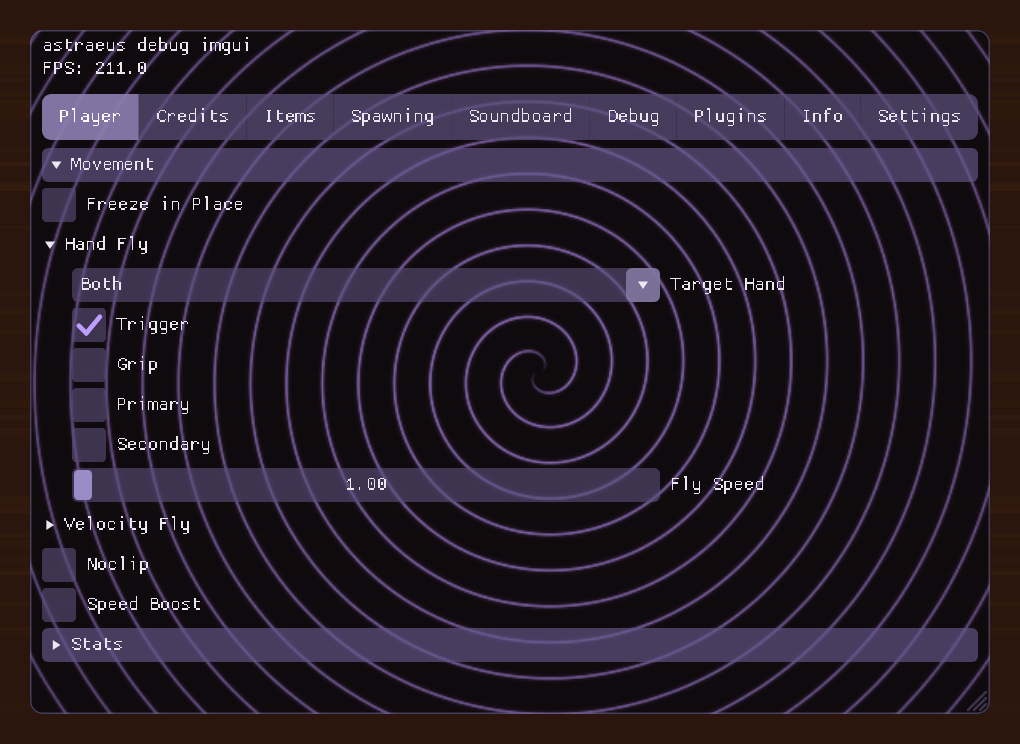
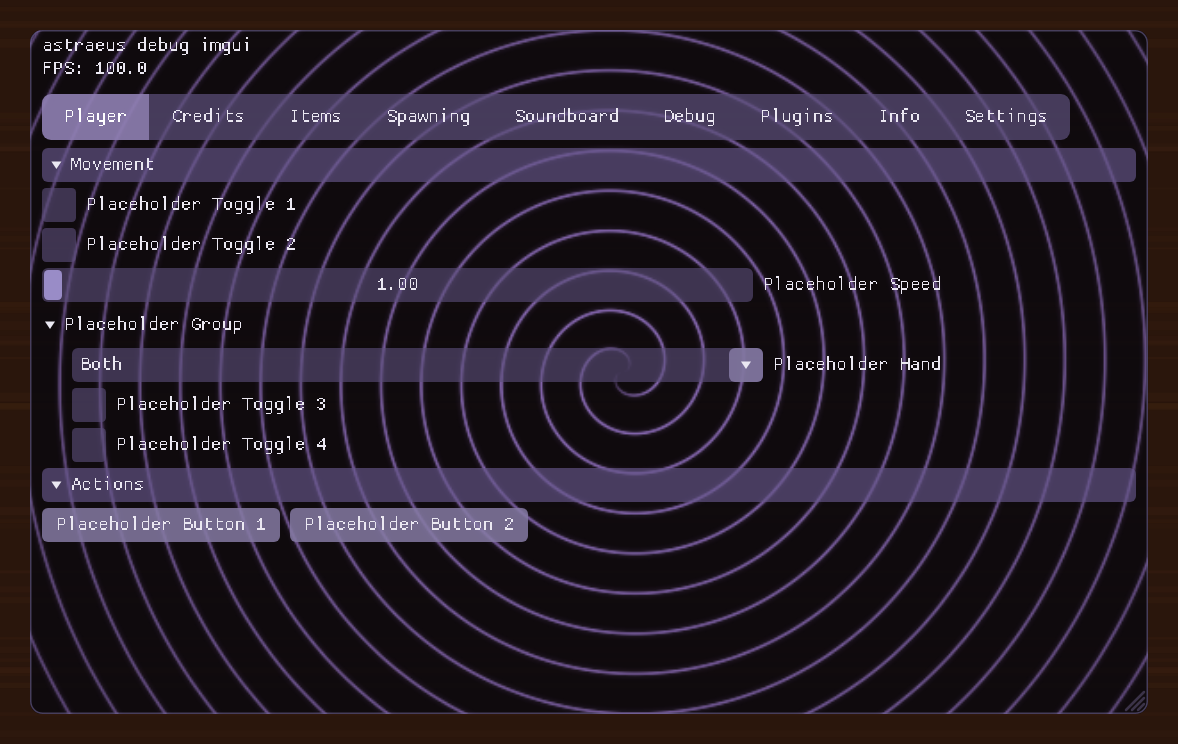
Placeholder Player / Items / Spawning tabs behind a warning
Each of the three tabs first shows a framed notice saying it's a
placeholder with no scripts behind it (so it does nothing in Animal
Company) and a Continue button; once continued (per tab, per session) the
tab shows placeholder controls. Toggles, sliders, combos, the item list
and the buttons all work as UI, buttons just post a 'placeholder - no
script attached' notification.

Adds ui.notice(title, lines, button): a word-wrapped message box with a
highlighted border and one button, returning true when clicked.

Claude-Session: https://claude.ai/code/session_01CSWsGaxVVQEfJqQLYJMYRF

Changed region(s): [[0.0, 0.0309, 0.9725, 0.9583], [0.5471, 0.0309, 0.6078, 0.0618], [0.4255, 0.0309, 0.4863, 0.0618]]

diff --git a/fridaimgui.ts b/fridaimgui.ts
@@ -89,24 +89,26 @@ const S = {
 	showBones:     ref(false),
 	showColliders: ref(false),
 	logHooks:      ref(false),
-	freeze:        ref(false),
-	flyHand:       ref(0),
-	flyTrigger:    ref(true),
-	flyGrip:       ref(false),
-	flyPrimary:    ref(false),
-	flySecondary:  ref(false),
-	velHand:       ref(0),
-	velTrigger:    ref(false),
-	velGrip:       ref(false),
-	velPrimary:    ref(false),
-	itemSel:       ref(0),
 };
 const HANDS = ["Both", "Left", "Right"];
-const DEMO_SPAWN = ["item_ak_scale", "item_apple", "item_arena_pistol", "item_arena_shotgun", "item_arrow", "item_arrow_bomb",
-	"item_backpack", "item_banana", "item_baseball_bat", "item_boombox", "item_bow", "item_crossbow", "item_dynamite",
-	"item_flaregun", "item_grenade", "item_grenade_launcher", "item_hookshot", "item_jetpack", "item_katana", "item_lance",
-	"item_medkit", "item_pickaxe", "item_revolver", "item_rpg", "item_shotgun", "item_stick", "item_sword", "item_teleporter"];
 const MODES = ["Normal", "Fast", "Chaos"];
+
+// Placeholder tabs: every control works (toggles, sliders, lists, buttons) but nothing is wired to a script.
+const PH = {
+	toggles: [ref(false), ref(false), ref(false), ref(false), ref(false), ref(false)],
+	speed: ref(1.0), amount: ref(1), mode: ref(0), hand: ref(0), item: ref(0), group: ref(false),
+	scale: ref(1.0), count: ref(1),
+};
+const PH_ITEMS = Array.from({ length: 24 }, (_, i) => "Placeholder Item " + (i + 1 < 10 ? "0" : "") + (i + 1));
+const PH_WARNING = ["This tab is a placeholder.", "Nothing in it is connected to a script, so it won't do anything in AC (Animal Company). The buttons, toggles and sliders still work - they just don't run any mods."];
+const phSeen = new Set<string>();
+const phClick = (ui: any, what: string) => ui.notify(what + " (placeholder - no script attached)");
+// Shows the warning until Continue is pressed (once per tab, per session). Returns true once past it.
+function placeholderGate(ui: any, tab: string): boolean {
+	if (phSeen.has(tab)) return true;
+	if (ui.notice("Placeholder", PH_WARNING, "Continue")) phSeen.add(tab);
+	return false;
+}
 const DEMO_ITEMS = ["mod.frb", "config.json", "preset_a.frb", "preset_b.frb"];
 
 function onUpdate(): void {
@@ -119,30 +121,23 @@ function drawMenu(ui: any): void {
 		ui.beginTabBar("tabs");
 
 		if (ui.tabItem("Player")) {
-			if (ui.collapsingHeader("Movement", true)) {
-				ui.checkbox("Freeze in Place", S.freeze);
-				if (ui.treeNode("Hand Fly", true)) {
-					ui.combo("Target Hand", S.flyHand, HANDS);
-					ui.checkbox("Trigger", S.flyTrigger);
-					ui.checkbox("Grip", S.flyGrip);
-					ui.checkbox("Primary", S.flyPrimary);
-					ui.checkbox("Secondary", S.flySecondary);
-					ui.sliderFloat("Fly Speed", S.speed, 1, 10, 2);
-					ui.treePop();
+			if (placeholderGate(ui, "Player")) {
+				if (ui.collapsingHeader("Movement", true)) {
+					ui.checkbox("Placeholder Toggle 1", PH.toggles[0]);
+					ui.checkbox("Placeholder Toggle 2", PH.toggles[1]);
+					ui.sliderFloat("Placeholder Speed", PH.speed, 1, 10, 2);
+					if (ui.treeNode("Placeholder Group", true)) {
+						ui.combo("Placeholder Hand", PH.hand, HANDS);
+						ui.checkbox("Placeholder Toggle 3", PH.toggles[2]);
+						ui.checkbox("Placeholder Toggle 4", PH.toggles[3]);
+						ui.treePop();
+					}
 				}
-				if (ui.treeNode("Velocity Fly")) {
-					ui.combo("Target Hand##vel", S.velHand, HANDS);
-					ui.checkbox("Trigger##vel", S.velTrigger);
-					ui.checkbox("Grip##vel", S.velGrip);
-					ui.checkbox("Primary##vel", S.velPrimary);
-					ui.treePop();
+				if (ui.collapsingHeader("Actions", true)) {
+					if (ui.button("Placeholder Button 1")) phClick(ui, "Placeholder Button 1");
+					ui.sameLine();
+					if (ui.button("Placeholder Button 2")) phClick(ui, "Placeholder Button 2");
 				}
-				ui.checkbox("Noclip", S.noclip);
-				ui.checkbox("Speed Boost", S.speedBoost);
-			}
-			if (ui.collapsingHeader("Stats", false)) {
-				ui.progressBar(S.speed.v / 10, "speed " + S.speed.v.toFixed(1));
-				ui.text("These are demo controls - wire them to your game.");
 			}
 		}
 
@@ -160,43 +155,31 @@ function drawMenu(ui: any): void {
 		}
 
 		if (ui.tabItem("Items")) {
-			if (ui.collapsingHeader("Items", true)) {
-				if (ui.listBox("##spawnlist", S.itemSel, DEMO_SPAWN, 8)) ui.notify("selected " + DEMO_SPAWN[S.itemSel.v]);
-				ui.text("Selected: " + DEMO_SPAWN[S.itemSel.v]);
+			if (placeholderGate(ui, "Items")) {
+				if (ui.collapsingHeader("Items", true)) {
+					ui.listBox("##phitems", PH.item, PH_ITEMS, 8);
+					ui.text("Selected: " + PH_ITEMS[PH.item.v]);
+				}
+				if (ui.collapsingHeader("Options", true)) {
+					ui.sliderFloat("Placeholder Scale", PH.scale, 0.1, 5, 2);
+					ui.sameLine();
+					if (ui.button("Reset##phscale")) PH.scale.v = 1.0;
+					ui.checkbox("Placeholder Toggle 5", PH.toggles[4]);
+					if (ui.button("Use Selected Item")) phClick(ui, PH_ITEMS[PH.item.v]);
+				}
 			}
-			if (ui.collapsingHeader("Spawn Config", true)) {
-				ui.checkbox("Random Scale", S.randomScale);
-				ui.sliderFloat("Scale Modifier", S.scaleMod, 0.1, 5, 2);
-				ui.sameLine();
-				if (ui.button("Reset##scale")) S.scaleMod.v = 1.0;
-				ui.checkbox("Random Sat", S.randomSat);
-				ui.sliderFloat("Saturation Modifier", S.satMod, 0, 2, 2);
-				ui.sameLine();
-				if (ui.button("Reset##sat")) S.satMod.v = 1.0;
-				ui.checkbox("Random Hue", S.randomHue);
-				ui.sliderFloat("Hue Modifier", S.hueMod, 0, 360, 0);
-				ui.sameLine();
-				if (ui.button("Reset##hue")) S.hueMod.v = 0;
-			}
-			ui.checkbox("Hand Duper", S.handDuper);
-			ui.separator();
-			if (ui.button("Spawn Left Hand")) ui.notify("demo: spawn left hand");
-			ui.sameLine();
-			if (ui.button("Spawn Right Hand")) ui.notify("demo: spawn right hand");
-			if (ui.button("Spawn Head")) ui.notify("demo: spawn head");
-			ui.sameLine();
-			if (ui.button("Item Launcher")) ui.notify("demo: launcher");
 		}
 
 		if (ui.tabItem("Spawning")) {
-			ui.text("Config file: " + ui.filePath());
-			if (ui.button("Browse##items")) { S.itemPath.v = (S.itemPath.v + 1) % DEMO_ITEMS.length; ui.notify("selected " + DEMO_ITEMS[S.itemPath.v]); }
-			if (ui.collapsingHeader("Weapons", true)) {
-				ui.checkbox("Infinite Ammo", S.infAmmo);
-				ui.checkbox("Infinite RPG", S.infRpg);
-				ui.checkbox("Infinite Flaregun", S.infFlare);
-				ui.checkbox("Infinite Revolver", S.infRevolver);
-				ui.checkbox("Always Cocked (revy)", S.alwaysCocked);
+			if (placeholderGate(ui, "Spawning")) {
+				if (ui.collapsingHeader("Spawner", true)) {
+					ui.combo("Placeholder Mode", PH.mode, MODES);
+					ui.sliderInt("Placeholder Amount", PH.count, 1, 20);
+					ui.checkbox("Placeholder Toggle 6", PH.toggles[5]);
+					if (ui.button("Spawn Placeholder")) phClick(ui, "Spawn x" + PH.count.v);
+					ui.sameLine();
+					if (ui.button("Clear Placeholders")) phClick(ui, "Clear");
+				}
 			}
 		}
 
@@ -860,6 +843,7 @@ Il2Cpp.perform(() => {
 			Grip: [0.56, 0.50, 0.72, 0.35], GripHovered: [0.62, 0.57, 0.80, 0.7], GripActive: [0.72, 0.66, 0.90, 0.95],
 			ModalDim: [0.02, 0.01, 0.04, 0.6], Discord: [0.35, 0.4, 0.95, 0.9], DiscordHovered: [0.45, 0.5, 1, 1],
 			ListRow: [0.36, 0.31, 0.48, 0.42], ListRowAlt: [0.44, 0.39, 0.58, 0.42],
+			NoticeTitle: [1, 0.80, 0.40, 1], NoticeBorder: [1, 0.78, 0.40, 0.75],
 		},
 		Purple: {
 			Text: [0.86, 0.83, 0.95, 1], TextDisabled: [0.62, 0.58, 0.75, 0.85], TextOnActive: [1, 1, 1, 1],
@@ -1755,6 +1739,44 @@ Il2Cpp.perform(() => {
 		const shown = r.v.length || focused ? fitTail(r.v + (focused ? "_" : ""), fw - 20) : hint;
 		T(fx + 10, fy, fw - 20, fh, shown, r.v.length || focused ? C.Text : C.TextDisabled, ALIGN_LEFT, L_FRAME);
 		return focused;
+	}
+
+	function wrapText(str: string, width: number): string[] {
+		const out: string[] = [];
+		for (const para of str.split("\n")) {
+			let line = "";
+			for (const word of para.split(" ")) {
+				const next = line ? line + " " + word : word;
+				if (line && textW(next) > width) { out.push(line); line = word; } else line = next;
+			}
+			out.push(line);
+		}
+		return out;
+	}
+	// framed message box: title, word-wrapped lines, one button; returns true when the button is clicked
+	function notice(title: string, lines: string[], buttonLabel: string = "OK"): boolean {
+		const [, id] = labelId(title + "##notice");
+		const fw = fullW(), pad = 16, lh = lineH();
+		const body: string[] = [];
+		for (const l of lines) body.push(...wrapText(l, fw - pad * 2), "");
+		body.pop();
+		const bw = textW(buttonLabel) + style.framePadX * 2;
+		const h = pad + lh + 8 + body.length * lh + 14 + style.frameH + pad;
+		const [x, y] = item(fw, h);
+		const rad = style.rounding * 1.6;
+		RR(x, y, fw, h, C.PopupBg, L_ROW, 1.6);
+		R(x, y, fw, h, C.NoticeBorder ?? C.Accent, L_FRAME, 0, Math.max(rad, 10), ALL_CORNERS, TEX_RING);
+		let ty = y + pad;
+		const as = arrowSize();
+		arrow(x + pad, ty + (lh - as) / 2, as, 1, C.NoticeTitle ?? C.Accent);
+		T(x + pad + as + 8, ty, fw - pad * 2, lh, title, C.NoticeTitle ?? C.Accent, ALIGN_LEFT, L_FRAME);
+		ty += lh + 8;
+		for (const l of body) { if (l) T(x + pad, ty, fw - pad * 2, lh, l, C.Text, ALIGN_LEFT, L_FRAME); ty += lh; }
+		ty += 14;
+		const b = behavior(id, x + pad, ty, bw, style.frameH);
+		RR(x + pad, ty, bw, style.frameH, b.held ? C.ButtonActive : b.hov ? C.ButtonHovered : C.Button, L_FRAME);
+		T(x + pad, ty, bw, style.frameH, buttonLabel, C.Text, ALIGN_CENTER, L_FRAME);
+		return b.clicked;
 	}
 
 	// list box with a search field on top and a letter column on the left (click a letter to jump)
@@ -3198,7 +3220,7 @@ Il2Cpp.perform(() => {
 	const ui = {
 		begin, end, text, textColored: (c: number[], s: string) => text(s, c), textDisabled: (s: string) => text(s, C.TextDisabled),
 		button, checkbox, sliderFloat, sliderInt, combo, collapsingHeader, separator, spacing, sameLine, indent, unindent,
-		progressBar, beginTabBar, tabItem, endTabBar, treeNode, treePop, inputText, listBox, settings, info, notify, confirm, openUrl, style, ref,
+		progressBar, beginTabBar, tabItem, endTabBar, notice, treeNode, treePop, inputText, listBox, settings, info, notify, confirm, openUrl, style, ref,
 		pluginsTab, plugins: () => filePlugins(), pluginPage, debugTab, filePath, pluginDir: pluginDirStr,
 		theme: (name: string) => applyTheme(name), themes: () => THEME_NAMES.slice(),
 		fonts: () => loadedFonts.map(f => f.name),
